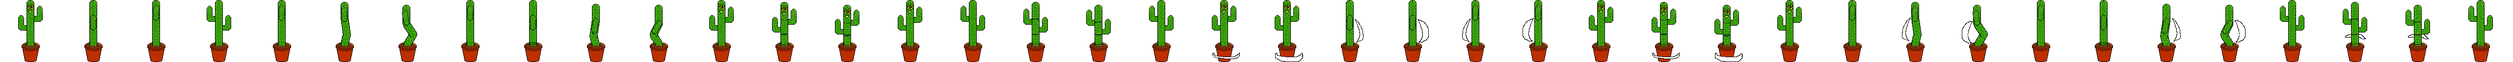
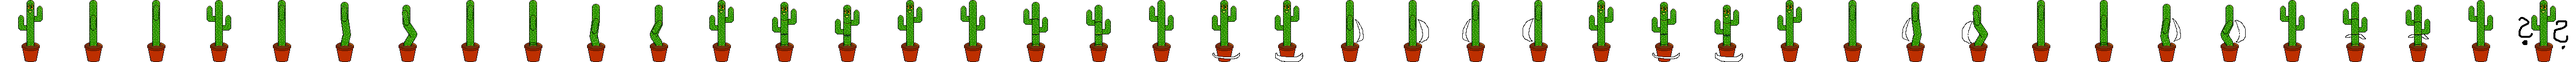
Fixed animation Problem all characters now use the same name for thei animations

diff --git a/OOPGames/OOPGames/Classes/Gruppe 9/PainterG9.cs b/OOPGames/OOPGames/Classes/Gruppe 9/PainterG9.cs
@@ -59,15 +59,11 @@ namespace OOPGames
         private static readonly AnimationProfile BoxingKnightProfile = new AnimationProfile(
             "BoxingKnight",
             new[] { "Character", "BoxingKnight", "BoxingKnightSpritesheet.png" },
-            new[] { "Character", "BoxingKnight", "BoxingKnightAnimation.json" },
-            "IdleFront", "IdleBack", "IdleLeft", "IdleRight",
-            "WalkFront", "WalkBack", "WalkLeft", "WalkRight");
+            new[] { "Character", "BoxingKnight", "BoxingKnightAnimation.json" });
         private static readonly AnimationProfile KurtProfile = new AnimationProfile(
             "Kurt",
             new[] { "Character", "Kurt", "Kurt.png" },
-            new[] { "Character", "Kurt", "Kurt.json" },
-            "Idle Front", "Idle Back", "Idle Left", "Idle Right",
-            "Walk Forwards", "Walk Backwards", "Walk Left", "Walk Right");
+            new[] { "Character", "Kurt", "Kurt.json" });
         private static readonly string[] EnemySpriteSheetPath =
             { "Enemies", "Enemie1.png" };
         private static readonly string[] EnemyAnimationMetadataPath =
@@ -223,7 +219,7 @@ namespace OOPGames
             }
 
             string animationName = GetPlayerAnimationName(
-                _selectedAnimationProfile, field.Player.Facing, field.Player.IsMoving,
+                field.Player.Facing, field.Player.IsMoving,
                 field.Player.IsAttacking, field.Player.AttackFacing);
             if (_playerAnimator == null
                 || !ReferenceEquals(_playerAnimatorProfile, _selectedAnimationProfile))
@@ -948,17 +944,16 @@ namespace OOPGames
             }
         }
 
-        // Keep Boxing Knight's game-state naming convention outside the generic animator.
         private static string GetPlayerAnimationName(
-            AnimationProfile profile, PlayerFacing facing, bool isMoving,
+            PlayerFacing facing, bool isMoving,
             bool isAttacking, PlayerFacing attackFacing)
         {
-            if (ReferenceEquals(profile, KurtProfile) && isAttacking)
+            if (isAttacking)
             {
                 switch (attackFacing)
                 {
                     case PlayerFacing.Back:
-                        return "WalkAttackBackwards";
+                        return isMoving ? "WalkAttackBackwards" : "IdleAttackBackwards";
                     case PlayerFacing.Left:
                         return "IdleAttackLeft";
                     case PlayerFacing.Right:
@@ -973,20 +968,20 @@ namespace OOPGames
             switch (facing)
             {
                 case PlayerFacing.Back:
-                    idleAnimation = profile.IdleBack;
-                    walkAnimation = profile.WalkBack;
+                    idleAnimation = "Idle Back";
+                    walkAnimation = "Walk Backwards";
                     break;
                 case PlayerFacing.Left:
-                    idleAnimation = profile.IdleLeft;
-                    walkAnimation = profile.WalkLeft;
+                    idleAnimation = "Idle Left";
+                    walkAnimation = "Walk Left";
                     break;
                 case PlayerFacing.Right:
-                    idleAnimation = profile.IdleRight;
-                    walkAnimation = profile.WalkRight;
+                    idleAnimation = "Idle Right";
+                    walkAnimation = "Walk Right";
                     break;
                 default:
-                    idleAnimation = profile.IdleFront;
-                    walkAnimation = profile.WalkFront;
+                    idleAnimation = "Idle Front";
+                    walkAnimation = "Walk Forwards";
                     break;
             }
 
@@ -1207,39 +1202,15 @@ namespace OOPGames
             public string Name { get; }
             public string[] SpriteSheetPath { get; }
             public string[] AnimationMetadataPath { get; }
-            public string IdleFront { get; }
-            public string IdleBack { get; }
-            public string IdleLeft { get; }
-            public string IdleRight { get; }
-            public string WalkFront { get; }
-            public string WalkBack { get; }
-            public string WalkLeft { get; }
-            public string WalkRight { get; }
 
             public AnimationProfile(
                 string name,
                 string[] spriteSheetPath,
-                string[] animationMetadataPath,
-                string idleFront,
-                string idleBack,
-                string idleLeft,
-                string idleRight,
-                string walkFront,
-                string walkBack,
-                string walkLeft,
-                string walkRight)
+                string[] animationMetadataPath)
             {
                 Name = name;
                 SpriteSheetPath = spriteSheetPath;
                 AnimationMetadataPath = animationMetadataPath;
-                IdleFront = idleFront;
-                IdleBack = idleBack;
-                IdleLeft = idleLeft;
-                IdleRight = idleRight;
-                WalkFront = walkFront;
-                WalkBack = walkBack;
-                WalkLeft = walkLeft;
-                WalkRight = walkRight;
             }
         }
 

diff --git a/OOPGames/OOPGames/Classes/Gruppe 9/SpriteSheetAnimator.cs b/OOPGames/OOPGames/Classes/Gruppe 9/SpriteSheetAnimator.cs
@@ -12,6 +12,7 @@ namespace OOPGames
     // Loads a tagged sprite-sheet atlas and plays any named clip from its JSON metadata.
     public sealed class SpriteSheetAnimator
     {
+        private const string NotFoundAnimationName = "NotFound";
         private readonly Dictionary<string, AnimationClip> _clips =
             new Dictionary<string, AnimationClip>(StringComparer.OrdinalIgnoreCase);
         private string _currentClipName;
@@ -50,9 +51,15 @@ namespace OOPGames
             }
             if (!_clips.TryGetValue(animationName, out AnimationClip clip))
             {
-                throw new KeyNotFoundException(
-                    "The sprite-sheet metadata does not contain an animation named '"
-                    + animationName + "'.");
+                if (!_clips.TryGetValue(NotFoundAnimationName, out clip))
+                {
+                    throw new KeyNotFoundException(
+                        "The sprite-sheet metadata does not contain an animation named '"
+                        + animationName + "' or the required fallback animation '"
+                        + NotFoundAnimationName + "'.");
+                }
+
+                animationName = NotFoundAnimationName;
             }
 
             // A new clip starts at frame zero; continued requests advance its loop.
